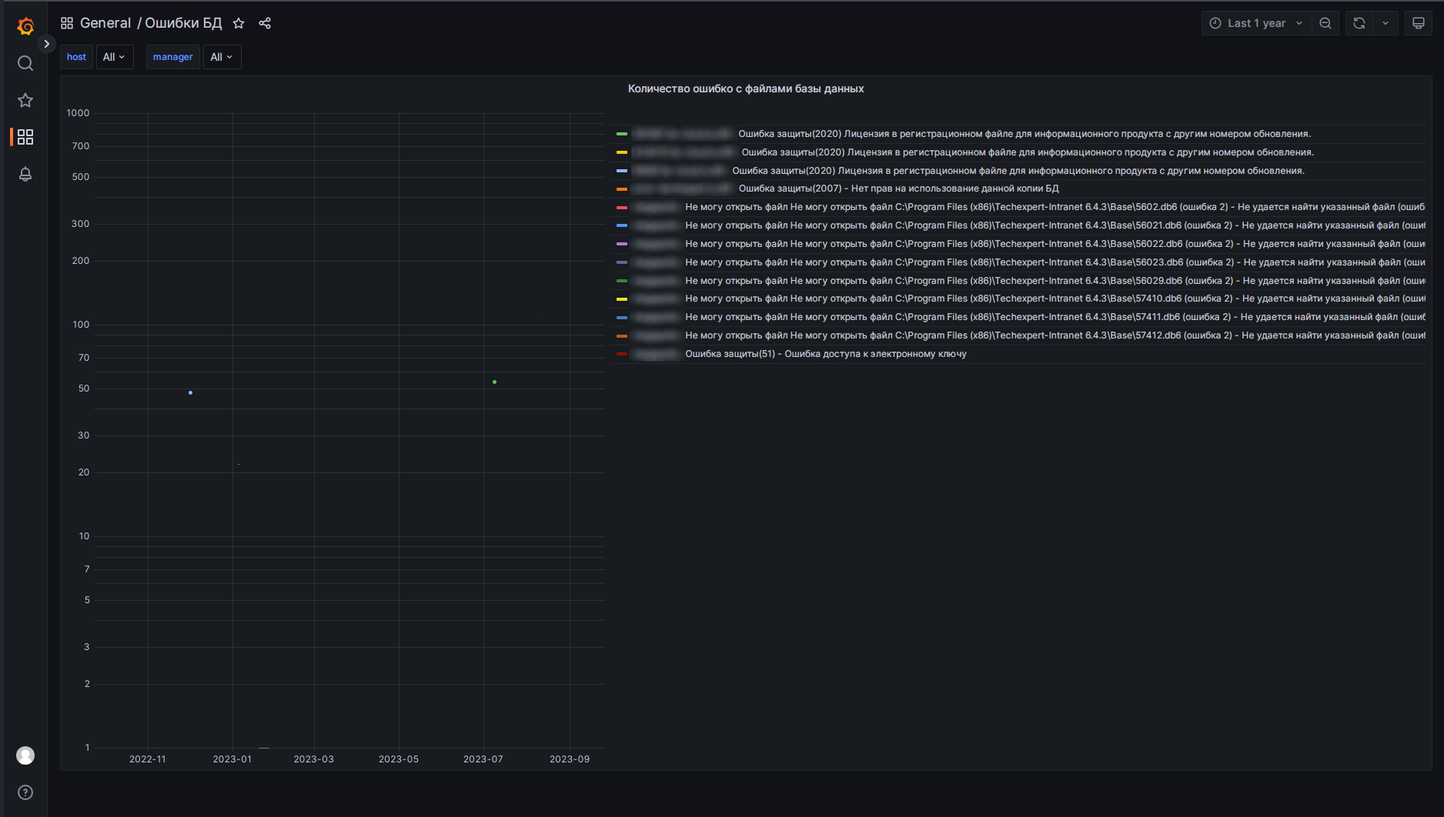
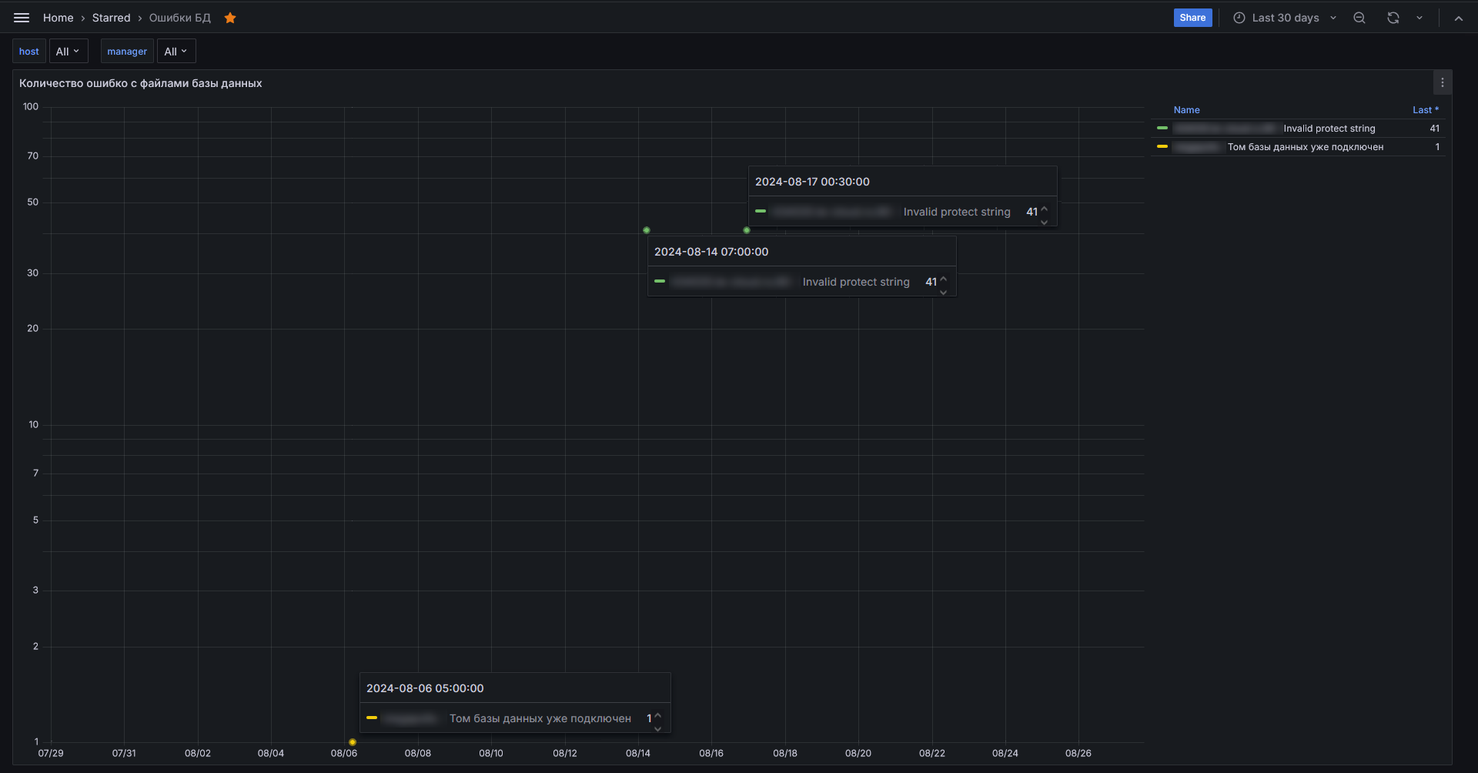
add new chapters (but not filled, for now), filled description to some chapters (076, 070, 069), add few more pics

diff --git a/docs/060-dashboards.md b/docs/060-dashboards.md
@@ -1,6 +1,6 @@
 # ДАШБОРДЫ
 
-Основаную и логически значимую часть Grafana составляют дашбоды.
+Основную и логически значимую часть Grafana составляют дашбоды.
 
 Дашборды есть "папки", в которых "сложены" таблицы и/или графики. 
 Таблицы и/или графики, в свою очередь, отражают определенную аналитическую и статистическую информацию.
@@ -20,7 +20,7 @@
 Отображением этих кривых тоже можно управлять:
 - по умолчанию на графике отображаются разом все кривые, зафиксированные на графике;
 - кликнув по любой строке в легенде, график отобразит кривую только той строки, клик на которую был осуществлен;
-- повторный клик по этой же строке приведет к возврату отображегния всех кривых, зафиксированных для этого графика;
+- повторный клик по этой же строке приведет к возврату отображения всех кривых, зафиксированных для этого графика;
 - можно избирательно отобразить на графике несколько кривых (по порядку или выборочно) - для этого нужно зажать shift и 
 выборочно кликать по необходимым строкам в легенде того или иного графика.
 
@@ -31,7 +31,7 @@
 - нужно провести сравнительную аналитику успешности работы того или иного менеджера на фоне более успешного его коллеги;
 - сравнить показатели (два и более) по нескольким установкам.
 
-Дашбородов и таблиц/графиков в них на данный момент (16.07.2023) существует уже немалое количество, а именно:
+Дашбородов и таблиц/графиков в них на данный момент (27.08.2024) существует уже немалое количество, а именно:
 
 - [Kodeks server metrics](061-kodeks-server-metrics.md)
   - [Время нештатного состояния сервера](061-kodeks-server-metrics.md#время-нештатного-состояния-сервера)
@@ -52,6 +52,7 @@
   - [Количество лицензий на инсталляции](062-kodeks-analytics.md#количество-лицензий-на-инсталляции)
 
 - [СМАРТ.Статус](077-smartstatus.md)
+- [kAssist. Аналитика](078-kassist.md)
 
 - [Биллинг Онлайн. Статистика](063-billing-online-statistics.md)
   - [Биллинг Онлайн](063-billing-online-statistics.md#биллинг-онлайн-1)
@@ -66,7 +67,18 @@
     - [Проблемы с получением статистики](063-billing-online-statistics.md#ошибки-подключения-к-серверам)
     - [Варианты ошибок](063-billing-online-statistics.md#ошибки-подключения-к-серверам)
 
+- [Биллинг Онлайн. Аналитика](074-billing-online-analytics.md)
+  - [Средний процент использования лимита документов по всем клиентам менеджера](074-billing-online-analytics.md#средний-процент-использования-лимита-документов-по-всем-клиентам-менеджера)
+  - [Средний процент использования лимита документов по всем клиентам](074-billing-online-analytics.md#средний-процент-использования-лимита-документов-по-всем-клиентам)
+  - [Общее количество клиентов с онлайн-доступами на мониторинге](074-billing-online-analytics.md#общее-количество-клиентов-с-онлайн-доступами-на-мониторинге)
+
+- [Биллинг Онлайн. Данные для пролонгации](081-billing-online-prolongation)
+
 - [Данные для пролонгации](064-prolongation.md)
+  - [Нюансы обращения с таблицей, интерпретации данных в ней](064-prolongation.md#нюансы-обращения-с-таблицей-интерпретации-данных-в-ней)
+  - [Использование таблицы при составлении отчёта ЛПР](064-prolongation.md#использование-таблицы-при-составлении-отчёта-лпр)
+    - [Количество отвергнутых попыток подключения из-за окончания свободных лицензий](064-prolongation.md#количество-отвергнутых-попыток-подключения-из-за-окончания-свободных-лицензий)
+    - [Статистика работы KAssist](064-prolongation.md#статистика-работы-kassist)
 
 - [Для менеджеров](066-for-managers.md.md)
   - [Параметры клиентов;](066-for-managers.md#параметры-клиентов)
@@ -86,9 +98,15 @@
   - [Ноль запросов к БД за 60 дней](066-for-managers.md#ноль-запросов-к-бд-за-60-дней);
   - [Процент заполненных карточек заходивших в систему пользователей](066-for-managers.md#процент-заполненных-карточек-заходивших-в-систему-пользователей).
 
+- [Доступность серверов](079-server-availability.md)
+
+- [Доступность серверов. Онлайн](080-server-availability-online.md)
+
 - [Загрузка sysinfo в АСРП](067-upload-sysinfo-into-ASRP.md)
 
 - [Карточки пользователей](068-user-cards.md)
+
+- [Квартальная аналитика](082-quarterly-analytics.md)
   
 - [Контроль версий ПК, kassist и др.](069-versioning-SP-kassist.md)
 
@@ -99,11 +117,6 @@
 - [Поисковые запросы](072-search-query.md)
 
 - [Поисковые запросы. Онлайн](073-search-query-online.md)
-
-- [Биллинг Онлайн. Аналитика](074-billing-online-analytics.md)
-  - [Средний процент использования лимита документов по всем клиентам менеджера](074-billing-online-analytics.md#средний-процент-использования-лимита-документов-по-всем-клиентам-менеджера)
-  - [Средний процент использования лимита документов по всем клиентам](074-billing-online-analytics.md#средний-процент-использования-лимита-документов-по-всем-клиентам)
-  - [Общее количество клиентов с онлайн-доступами на мониторинге](074-billing-online-analytics.md#общее-количество-клиентов-с-онлайн-доступами-на-мониторинге)
 
 - [Статистика в разрезе MS ActiveDirectory](075-active-directory-statistics.md)
 

diff --git a/docs/076-current-emergences.md b/docs/076-current-emergences.md
@@ -1,6 +1,37 @@
 # Текущие аварийные ситуации
 
-Скоро здесь будет подробное описание. Следи за изменениями, коллега.
+![Дашборд "Текущие аварийные ситуации](img/current-emergences/current-emergences.png 'Дашборд "Текущие аварийные ситуации"')
+
+Данный дашборд состоит из одного одноименной таблицы. Сводная таблица отображает все аварийные ситуации, зафиксированные
+за заданный временной период.
+
+При наведении курсора на любую ячейку этой таблицы можно увидеть полный текст в этой ячейке, если он ен поместился визуально;
+
+Таблице доступен определенный набор фильтров:
+- Фильтр "Клиент" содержит имя клиента, которое зарегистрировано в СМАРТе (такое, какое было подано к регистрации через
+*.csv файл);
+- Фильтр "Менеджер" содержит имя менеджера, ответственного за того или иного клиента;
+- Фильтр "Приоритет" содержит заданный заранее определенный уровень приоритета (от К1 - наивысшего приоритета, до К5 - 
+низшего приоритета), в зависимости от самой аварийной ситуации;
+- Фильтр "Важность" содержит заданный заранее уровень важности той или иной аварийной ситуации: "info" (т.е. информационный 
+уровень) или "critical" (т.е. критический уровень);
+- Фильтр "text" содержит описание той или иной ошибки, приведшей к аварийной ситуации;
+- Фильтр "clientname" содержит наименование юр.лица клиента в том виде, в каком оно присутствует в sysinfo;
+- Фильтр "regnum" содержит рег.номер клиента, взятый из sysinfo;
+- Фильтр "katalog" содержит имя каталога, заполняется только тогда, когда в таблице отражаются простые онлайн-доступы;
+- Фильтр "URL" содержит адрес простого онлайн-доступа (без каталога), заполняется только тогда, когда в таблице отражаются 
+простые онлайн-доступы;
+- Фильтр "user" содержит имя учетки, использовавшей простой онлайн-доступ и, при использовании которой возникла и была
+зафиксирована та или иная аварийная ситуация;
+- Фильтр "filename" содержит абсолютный путь к файлу, приведшему к аварийной ситуации.
+
+Комбинация приоритета и важности той или иной аварийной ситуации позволяет СМАРТу сортировать ситуации и, соотвественно,
+присылать уведомления и в почту менеджера, и в телеграм-канал для соотвествующих уведомлений. При этом письмо в почту
+будет всегда, а вот уведомление в телеграм-канал - только высокого приоритета.
+
+Таблица данного дашборда позволяет в целом оценить ситуацию по техническим проблемам на подконтрольных установках. Таким
+образом, эта сводная таблица будет полезна руководителям отделов сопровождения / техническим специалистам дистрибьютора,
+для целей оперативного контроля за ситуацией в целом.
 
 [Листай дальше](077-smartstatus.md)
 

diff --git a/docs/070-DB-errors.md b/docs/070-DB-errors.md
@@ -4,17 +4,19 @@
 
 Данный дашборд состоит из 1 одноименного графика.
 
-График отображает количественные значения по зафиксированным ошибкам, связанным с базами данных, за определенный период времени.
-Количественное значение при этом равно тому количеству баз, по которым была зафиксирована та или иная ошибка.
+График отображает количественные значения по зафиксированным ошибкам, связанным с базами данных, за определенный период 
+времени. Количественное значение при этом равно тому количеству баз, по которым была зафиксирована та или иная ошибка.
 
 Графику доступны фильтры:
 - host - фильтрация по адресу/имени подконтрольной установки;
 - manager - фильтрация по ответственному менеджеру.
-- 
+
 К графику, как и ко всем прочим можно применять фильтр времени.
 
-Так же, справа от графика присутсвует легенда, где расшифрованы все цветовые метки, попавшие на график: кому какие принадлежат.
-Кликая по одной строке в легенде или нескольким (зажав shift) можно увидеть отображение либо только одной выбранной кривой, либо выборочно нескольких.
+Так же, справа от графика присутствует легенда, где расшифрованы все цветовые метки, попавшие на график: кому какие 
+принадлежат.
+Кликая по одной строке в легенде или нескольким (зажав shift) можно увидеть отображение либо только одной выбранной кривой, 
+либо выборочно нескольких.
 По умолчанию на графике отображаются все зафиксированные метки.
 
 В паре с этим графиком работают алерты:
@@ -27,7 +29,11 @@
 
 Алерты приходят в почту ответственного менеджера, а также - в телеграм канал этого дистрибьютора-пользователя СМАРТ-мониторинга.
 
+Полный список ВСЕХ алертов (по состоянию на 27.08.2024) можно найти [здесь.](000-appendix-1.md)
+Раздел, связанный именно с алертами касательно БД - [тут.](000-appendix-1.md#алерты-на-ошибки-с-базами-данных-и-operup)
+
 Полный список ВСЕХ ошибок, связанных с базами данных, да и работой ПК в целом, можно увидеть в [Приложении №2.](000-appendix-2.md)
+Раздел, связанный именно с ошибками касательно БД - [тут.](000-appendix-2.md#ошибки-возникающие-при-работе-с-томами-бд)
 
 [Листай дальше](071-connected-users.md)
 

diff --git a/docs/071-connected-users.md b/docs/071-connected-users.md
@@ -8,22 +8,31 @@
 
 ![Подключённые пользователи](img/kodeks-connected/connected-people.png "Подключённые пользователи")
 
-В верхней части переключатель "Клиент", в котором можно выбрать клиента. 
+В верхней части переключатель "Клиент", в котором можно выбрать клиента. Рядом присутствует переключатель "Домен", в
+котором можно выбрать домен. Этот переключатель актуален на тех установках, где среди зарегистрированных пользователей
+присутствуют разные из разных доменов (по данным из Active Directory).
 
-В колонке "login" отображается имя пользователя, под которой он подключается к ПК.
+В колонке "Логин" отображается имя пользователя, под которой он подключается к ПК.
+
+В колонке "Время на сервере" отображается то время, которое зарегистрировано в ПК К/ТЭ при входе той или иной учетки.
 
 В колонке "IP" отображается IP, с которого пользователь подключался к ПК. 
 Если установка доступна через интернет или "Техэксперт.Облако", то IP может быть один для всех пользователей.
 Или на один логин может быть зафиксировано более чем один IP, смотря с которого пользователь зашел в ПК.
 
-**ВАЖНО!** В случае, когда было замчечено, что одна и та же учетка заходит с разных IP И при этом наблюдается стабильный дефицит лицензий,
+В колонке "Браузер" отображается браузер-клиент, используемый для входа в К/ТЭ той или иной учеткой.
+
+---
+
+**ВНИМАНИЕ!** В случае, когда было замечено, что одна и та же учетка заходит с разных IP И при этом наблюдается стабильный дефицит лицензий,
 то имеет смысл провести переговоры с клиентом о допоставке рабочих мест.
 Перед такими переговорами следует провести инвентаризацию всех, кто зарегистрирован на вход в ПК, сравнить с []
 Косвенно разные IP на одну и ту же учетку могут свидетельствовать об утечке параметров доступа в ПК к третьим лицам.
 Следует обсудить это с клиентом, возможно, он захочет заблокировать нежелательные IP.
 В этом случае следует обратиться с соответствующим запросом в техподдержку сервиса "Техэксперт.Облако"
 
-В колонке "domain" отображается домен в ActiveDirectory.
+---
+
 
 [Листай дальше](072-search-query.md)
 

diff --git a/docs/074-billing-online-analytics.md b/docs/074-billing-online-analytics.md
@@ -4,14 +4,14 @@
 Дашборд содержит 3 (пока что) графика, содержащих аналитическую информацию о том, насколько внедренные онлайн-доступы
 востребованы клиентами.
 
-Для простоты понимания, можно провести смысловую параллель между этим дашбордом и дашбордом [Kodeks analytics.](062-kodeks-analytics)
+Для простоты понимания, можно провести смысловую параллель между этим дашбордом и дашбордом [Kodeks analytics.](062-kodeks-analytics.md)
 Они оба примерно об одном и том же - аналитика действий клиента с внедренным у него Техэкспертом и построение выводов
 на основе представленных в дашбордах данных для целей дальнейшего построения тактики и стратегии сопровождения клиента.
 
 Дашборд пока что состоит из:
-- график ["Средний процент использования лимита документов по всем клиентам менеджера"](074-billing-online-analytics#средний-процент-использования-лимита-документов-по-всем-клиентам-менеджера);
-- график ["Средний процент использования лимита документов по всем клиентам"](074-billing-online-analytics#средний-процент-использования-лимита-документов-по-всем-клиентам);
-- график ["Общее количество клиентов потокового сбыта на мониторинге"](074-billing-online-analytics#общее-количество-клиентов-с-онлайн-доступами-на-мониторинге).
+- график ["Средний процент использования лимита документов по всем клиентам менеджера"](074-billing-online-analytics.md#средний-процент-использования-лимита-документов-по-всем-клиентам-менеджера);
+- график ["Средний процент использования лимита документов по всем клиентам"](074-billing-online-analytics.md#средний-процент-использования-лимита-документов-по-всем-клиентам);
+- график ["Общее количество клиентов потокового сбыта на мониторинге"](074-billing-online-analytics.md#общее-количество-клиентов-с-онлайн-доступами-на-мониторинге).
 
 Дашборд будет полезен как самим менеджерам по сопровождению, так и их руководству, для контроля результатов работы менеджера
 с его подопечными клиентами.

diff --git a/docs/069-versioning-SP-kassist.md b/docs/069-versioning-SP-kassist.md
@@ -1,6 +1,31 @@
 # Контроль версий ПК, kassist и др.
 
-Скоро здесь будет подробное описание. Следи за изменениями, коллега.
+![Дашборд "Контроль версий ПК, kassist и др."](img/versioning-SP-kassist/versioning-SP-kassist.png 'Дашборд "Контроль версий ПК, kassist и др."')
+
+Данный дашборд содержит две сводные таблицы. Большая польза данного дашборда состоит в том, что:
+- дашборд в едином месте содержит всю информацию касательно вопроса версионности ПК и его модулей по всем подконтрольным 
+СМАРТу установкам, без заглядывания в "админку" по каждой персонально и без заглядывания в собранные с этих установок
+sysinfo персонально, что, в свою очередь, 
+- существенно экономит время менеджера / тех.специалиста / руководителя
+
+Дашборд дает ответ на вопрос: 
+- Достаточно ли актуальный на текущий момент используется внедренный ПК К/ТЭ у конкретного клиента?
+
+Дашборд будет полезен как менеджерам, так и их руководителям. Первым - для оперативного контроля и планирования,
+вторым - для контроля качества внедренческой и споровожденческой работы подчиненных менеджеров.
+
+## Используемые в компании версии ПО за последние 30 дней
+
+Данная таблица позволяет отслеживать версии ПК, модуля sysinfo (позднее будут отражены версии других модулей), используеющиеся
+сейчас и с оглядкой на 30 дней назад. Позволяет в оперативном режиме отслеживать версионность и оперативно провести
+обновление ПК и его модулей при необходимости. Кроме того, данные с этой таблицы можно использовать для планирования
+работ по обновлению ПК и его модулей.
+
+## Статистика
+
+Данная таблица содержит больше информации по версионности ПК и его модулей с подконтрольных СМАРТу установок. Таблица,
+так же как и ее "соседка" выше, позволяет оперативно отслеживать и контролировать версионность, а также планировать
+работы по обновлению.
 
 [Листай дальше](070-DB-errors.md)
 

diff --git a/docs/079-server-availability.md b/docs/079-server-availability.md
@@ -24,10 +24,10 @@
 таковые показатели KPI нормированы у дистрибьютора;
 - контроля за стабильностью внедренных установок К/ТЭ на любой перспективе, любые провалы в данном случае есть маркер 
 ненормального поведения ПК К/ТЭ;
-- включения данных из этого дашборда в отчеты ЛПРу где этот уместно, как объективное доказательство стабильности работы
+- включения данных из этого дашборда в отчеты ЛПРу, где этот уместно, как объективное доказательство стабильности работы
 внедренного ПК К/ТЭ.
 
-[Листай дальше](100-smart-real-cases-1.md)
+[Листай дальше](080-server-availability-online.md)
 
 [Вернуться назад](078-kassist.md)
 

diff --git a/docs/064-prolongation.md b/docs/064-prolongation.md
@@ -72,7 +72,7 @@
 
 ### Статистика работы KAssist
 
-Для обогащения данными по работы подсистемы **kassist** рекомендуется обратиться к [дашборду "kAssist. Аналитика".](078-kassist) 
+Для обогащения данными по работы подсистемы **kassist** рекомендуется обратиться к [дашборду "kAssist. Аналитика".](078-kassist.md) 
 
 
 [Листай дальше](065-disk-space.md)

diff --git a/docs/072-search-query.md b/docs/072-search-query.md
@@ -2,7 +2,7 @@
 
 Скоро здесь будет подробное описание. Следи за изменениями, коллега.
 
-[Листай дальше](074-billing-online-analytics..md)
+[Листай дальше](074-billing-online-analytics.md)
 
 [Вернуться назад](060-dashboards.md)
 

diff --git a/docs/081-billing-online-prolongation.md b/docs/081-billing-online-prolongation.md
@@ -1,0 +1,9 @@
+# Биллинг Онлайн. Данные для пролонгации
+
+
+
+[Листай дальше](082-quarterly-analytics.md)
+
+[Вернуться назад](080-server-availability-online.md)
+
+[Вернуться в Оглавление](Readme.md)

diff --git a/docs/080-server-availability-online.md b/docs/080-server-availability-online.md
@@ -1,0 +1,9 @@
+# Доступность серверов. Онлайн
+
+
+
+[Листай дальше](081-billing-online-prolongation.md)
+
+[Вернуться назад](079-server-availability.md)
+
+[Вернуться в Оглавление](Readme.md)
